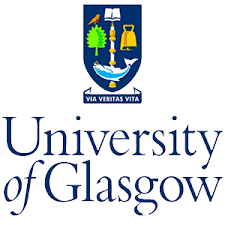
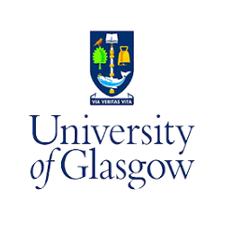
updated images

Changed region(s): [[0.0, 0.4978, 0.9956, 0.9644], [0.3422, 0.0, 0.6533, 0.4978]]

diff --git a/public_html/index.html b/public_html/index.html
@@ -45,7 +45,7 @@
                     <button type="button" class="navbar-toggle" data-toggle="collapse" data-target="#bs-example-navbar-collapse-1">
                         <span class="sr-only">Toggle navigation</span> Menu <i class="fa fa-bars"></i>
                     </button>
-                    <a class="navbar-brand page-scroll" href="#page-top">PRIMES</a>
+                    <a class="page-scroll" href="#page-top"><img src="img/logoblue.png" class="img-responsive" alt="" style="width:200px;height:49px;"></a>
                 </div>
 
                 <!-- Collect the nav links, forms, and other content for toggling -->
@@ -249,7 +249,7 @@
                 <div class="row">
                     <div class="col-sm-4">
                         <div class="team-member">
-                            <img src="img/team/uofg.jpg" class="img-responsive img-circle" alt="">
+                            <img src="img/team/uofg.png" class="img-responsive img-circle" alt="">
                             <h4>University of Glasgow</h4>
                             <p class="text-muted">Coordinator</p>
                             <ul class="list-inline social-buttons">
@@ -268,10 +268,6 @@
                             <h4>Virtual Trip LTD</h4>
                             <p class="text-muted">Software company</p>
                             <ul class="list-inline social-buttons">
-                                <li><a target="blank" href="#"><i class="fa fa-twitter"></i></a>
-                                </li>
-                                <li><a target="blank" href="#"><i class="fa fa-facebook"></i></a>
-                                </li>
                                 <li><a target="blank" href="http://www.vtrip.net/"><i class="fa fa-external-link"></i></a>
                                 </li>
                             </ul>
@@ -283,10 +279,6 @@
                             <h4>Lycée Emile Combes</h4>
                             <p class="text-muted">High School</p>
                             <ul class="list-inline social-buttons">
-                                <li><a target="blank" href="#"><i class="fa fa-twitter"></i></a>
-                                </li>
-                                <li><a target="blank" href="https://www.facebook.com/pages/Lyc%C3%A9e-Emile-Combes/110782995615721"><i class="fa fa-facebook"></i></a>
-                                </li>
                                 <li><a target="blank" href="http://www.lycee-pons.org/"><i class="fa fa-external-link"></i></a>
                                 </li>
                             </ul>
@@ -375,8 +367,8 @@
                             </li>
                         </ul>
                     </div>
-                    <div class="col-md-7">
-                        <span style="font-size: 9pt">The PRIMES project is funded by the European Commission under Project No. XXXXXX — (credits)
+                    <div class="col-md-5">
+                        <span style="font-size: 9pt">Funded by the Erasmus+ programme of the European Union
                             <img src="img/flag_eu.gif" alt="eu" width="38" height="26"/></span>
                     </div>
                 </div>
@@ -568,12 +560,14 @@
                                         implementation details from the feedback and suggestions of students and teachers. The PRIMES platform will further be used in the
                                         following ways:
                                     </p>
-                                    <ul>
-                                        <li>As a tool for student self-study.</li>
-                                        <li>As supporting material for classes under a teacher’s guidance.</li>
-                                        <li>As a student preparation tool for the class, so that the teacher can focus on exercises, discussion etc.</li>
-                                        <li>As research and thinking material in problem based learning. </li>
-                                    </ul>
+                                    <div style="text-align: left;">
+                                        <ul>
+                                            <li>As a tool for student self-study.</li>
+                                            <li>As supporting material for classes under a teacher’s guidance.</li>
+                                            <li>As a student preparation tool for the class, so that the teacher can focus on exercises, discussion etc.</li>
+                                            <li>As research and thinking material in problem based learning. </li>
+                                        </ul>
+                                    </div>
                                     <button type="button" class="btn btn-primary" data-dismiss="modal"><i class="fa fa-times"></i> Close</button>
                                 </div>
                             </div>
